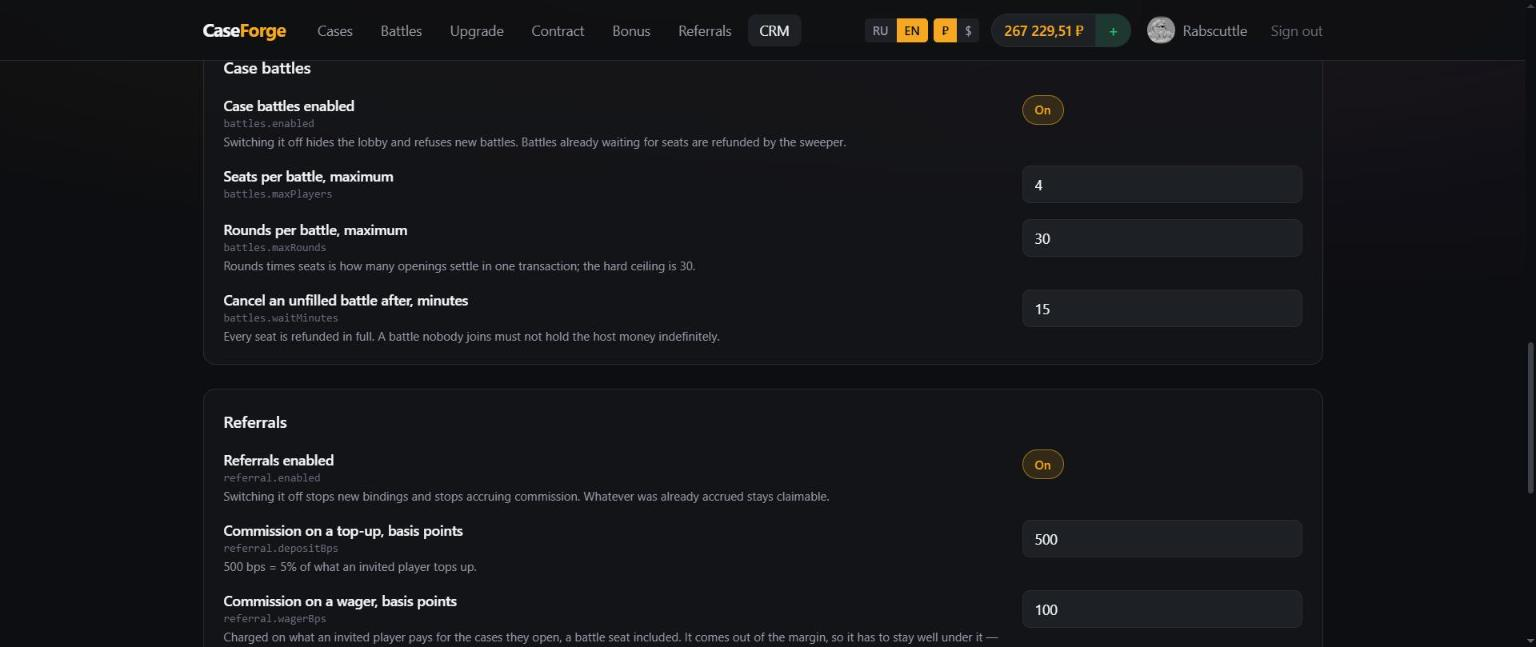
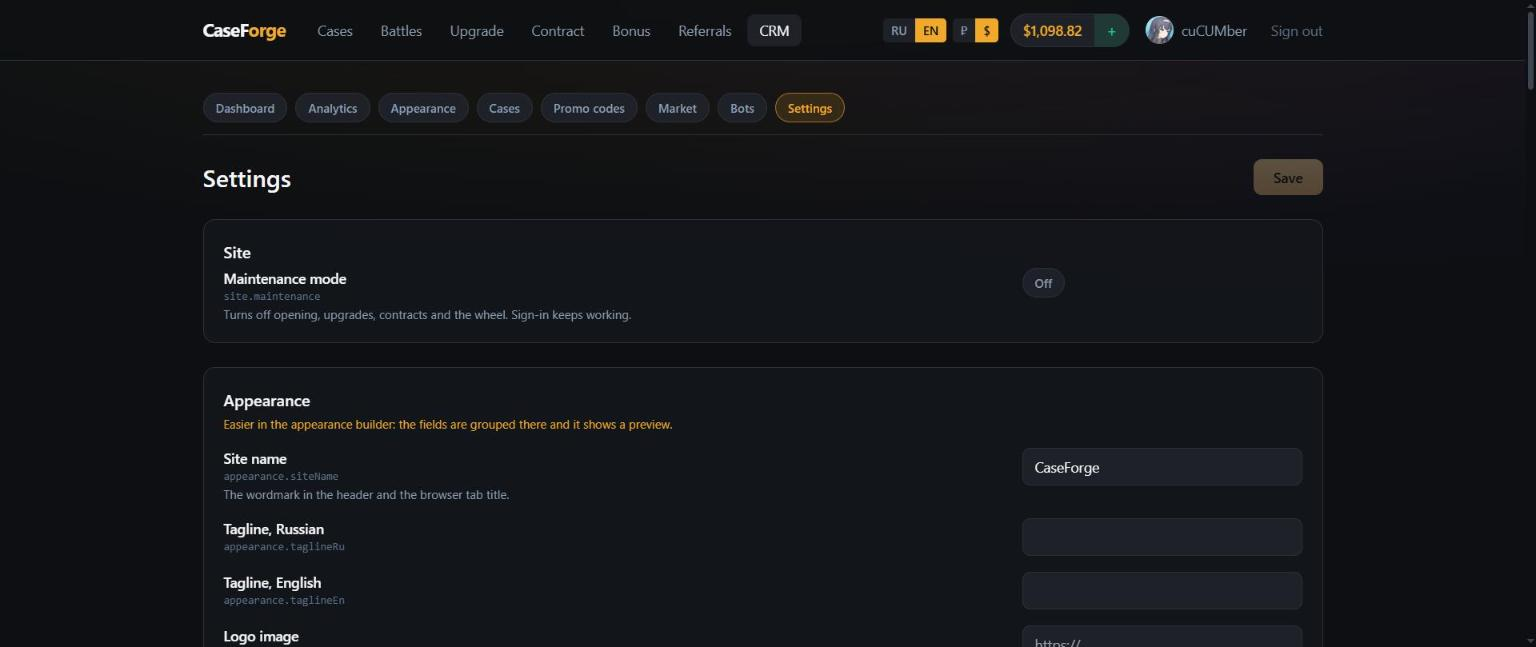
docs: retake the settings screenshot, now that it opens on the builder
The back office grew two tabs and the registry grew a group, so the shot
that illustrates "the form is generated from the registry" was showing
neither. It now opens on the appearance group and its link to the builder,
which is the clearest example the page has of a setting that arrived
without the panel being touched.

The promo screenshot is deliberately left as it was: its code list is full
of rows from smoke-test runs, and promo codes are deactivated rather than
deleted precisely so a redemption keeps explaining itself.

diff --git a/README.ru.md b/README.ru.md
@@ -572,7 +572,7 @@ pnpm test:load     # генератор нагрузки, тоже против 
 </p>
 
 <p align="center">
-  <em>Каждое поле рисуется из реестра вместе с ключом — поэтому настройка, добавленная в общий пакет, появляется здесь без единой правки панели. Группы батлов и рефералов появились именно так.</em>
+  <em>Каждое поле рисуется из реестра вместе с ключом — поэтому настройка, добавленная в общий пакет, появляется здесь без единой правки панели. Группы батлов, рефералов и оформления появились именно так; у последней есть свой конструктор, и ссылка на него — прямо в группе.</em>
 </p>
 
 Форма генерируется из реестра, объявленного один раз в

diff --git a/README.md b/README.md
@@ -562,7 +562,7 @@ rather than a deploy.
 </p>
 
 <p align="center">
-  <em>Each field is rendered from the registry, key and all — so a setting added in the shared package appears here with no change to the panel. The battle and referral groups arrived exactly that way.</em>
+  <em>Each field is rendered from the registry, key and all — so a setting added in the shared package appears here with no change to the panel. The battles, referrals and appearance groups all arrived exactly that way; the last of them has a builder of its own, and the link says so.</em>
 </p>
 
 The form is generated from a registry declared once in
